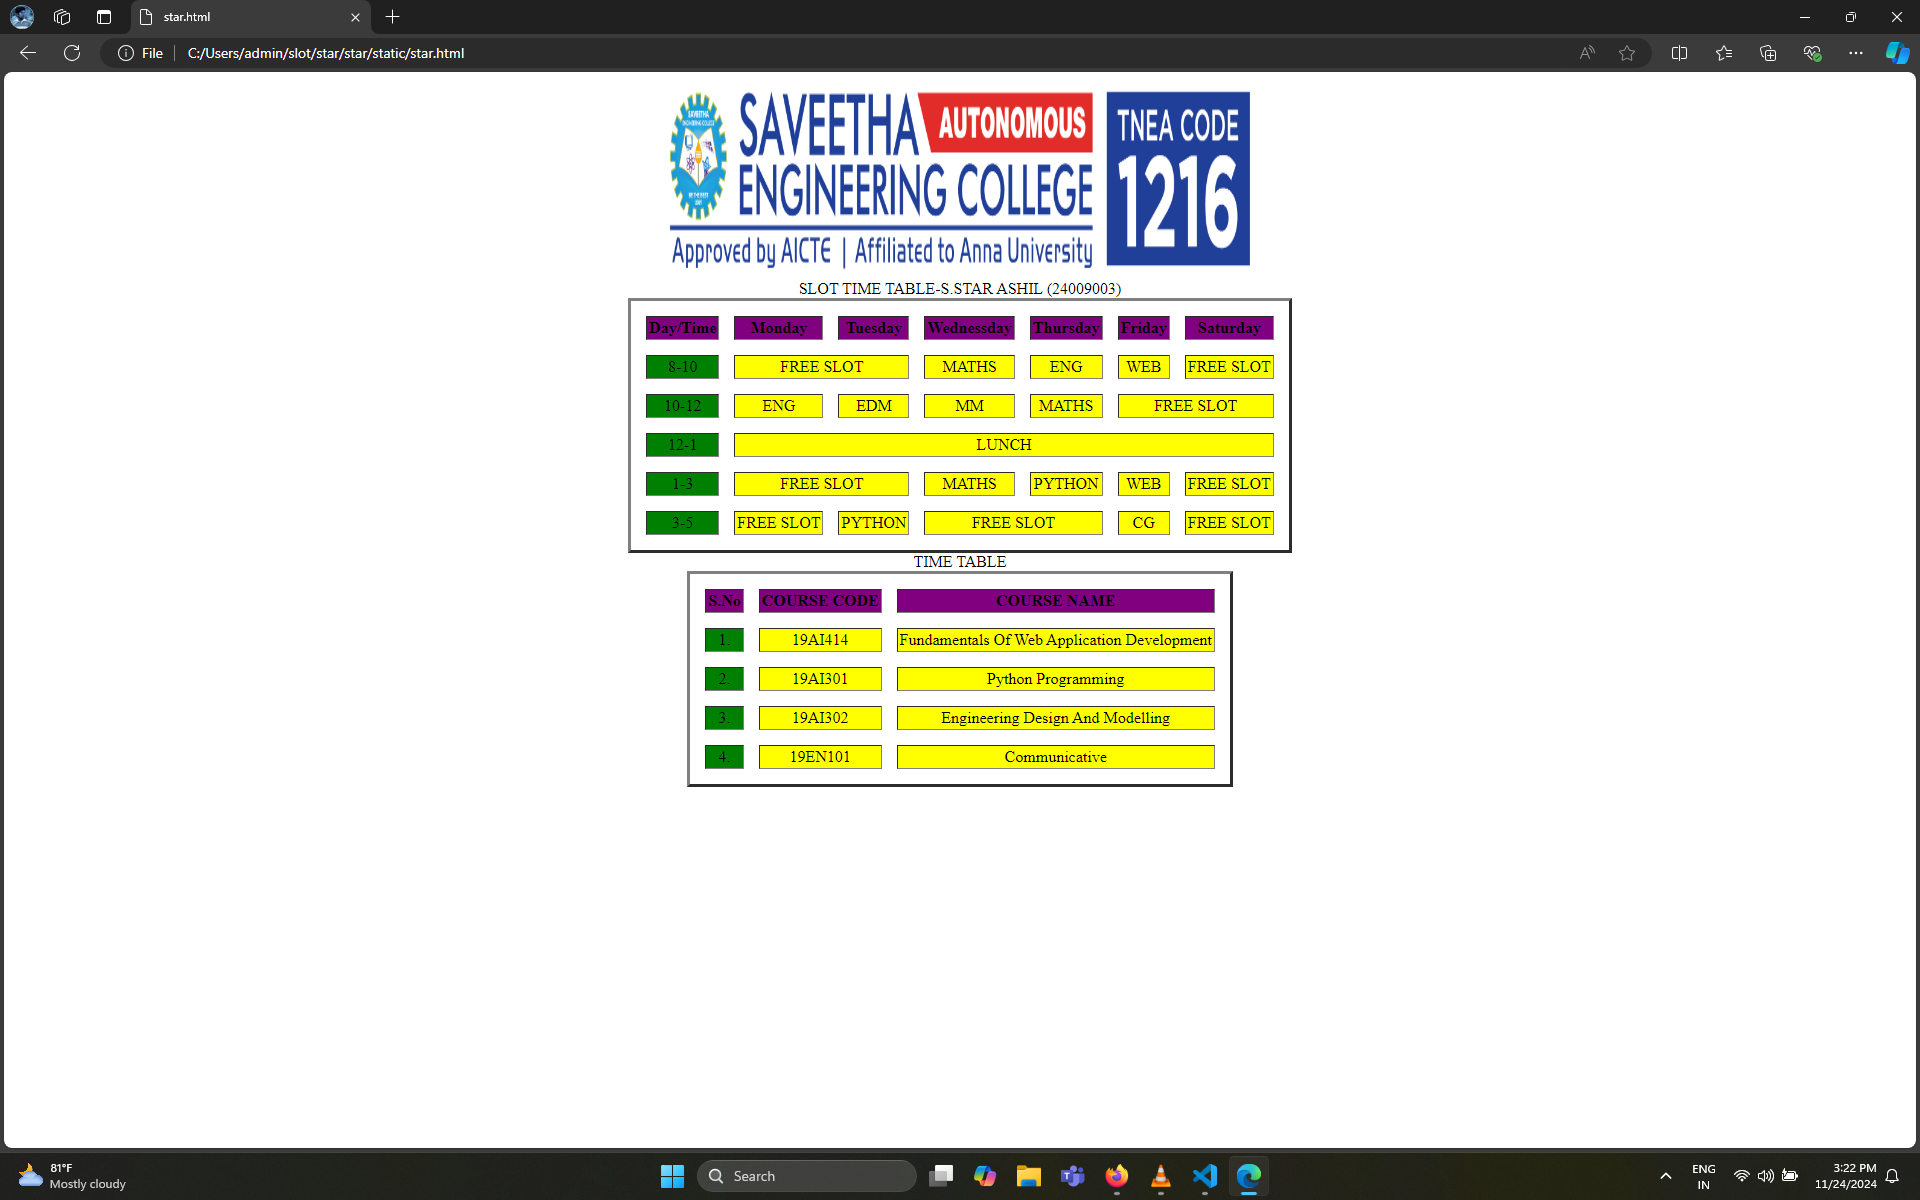
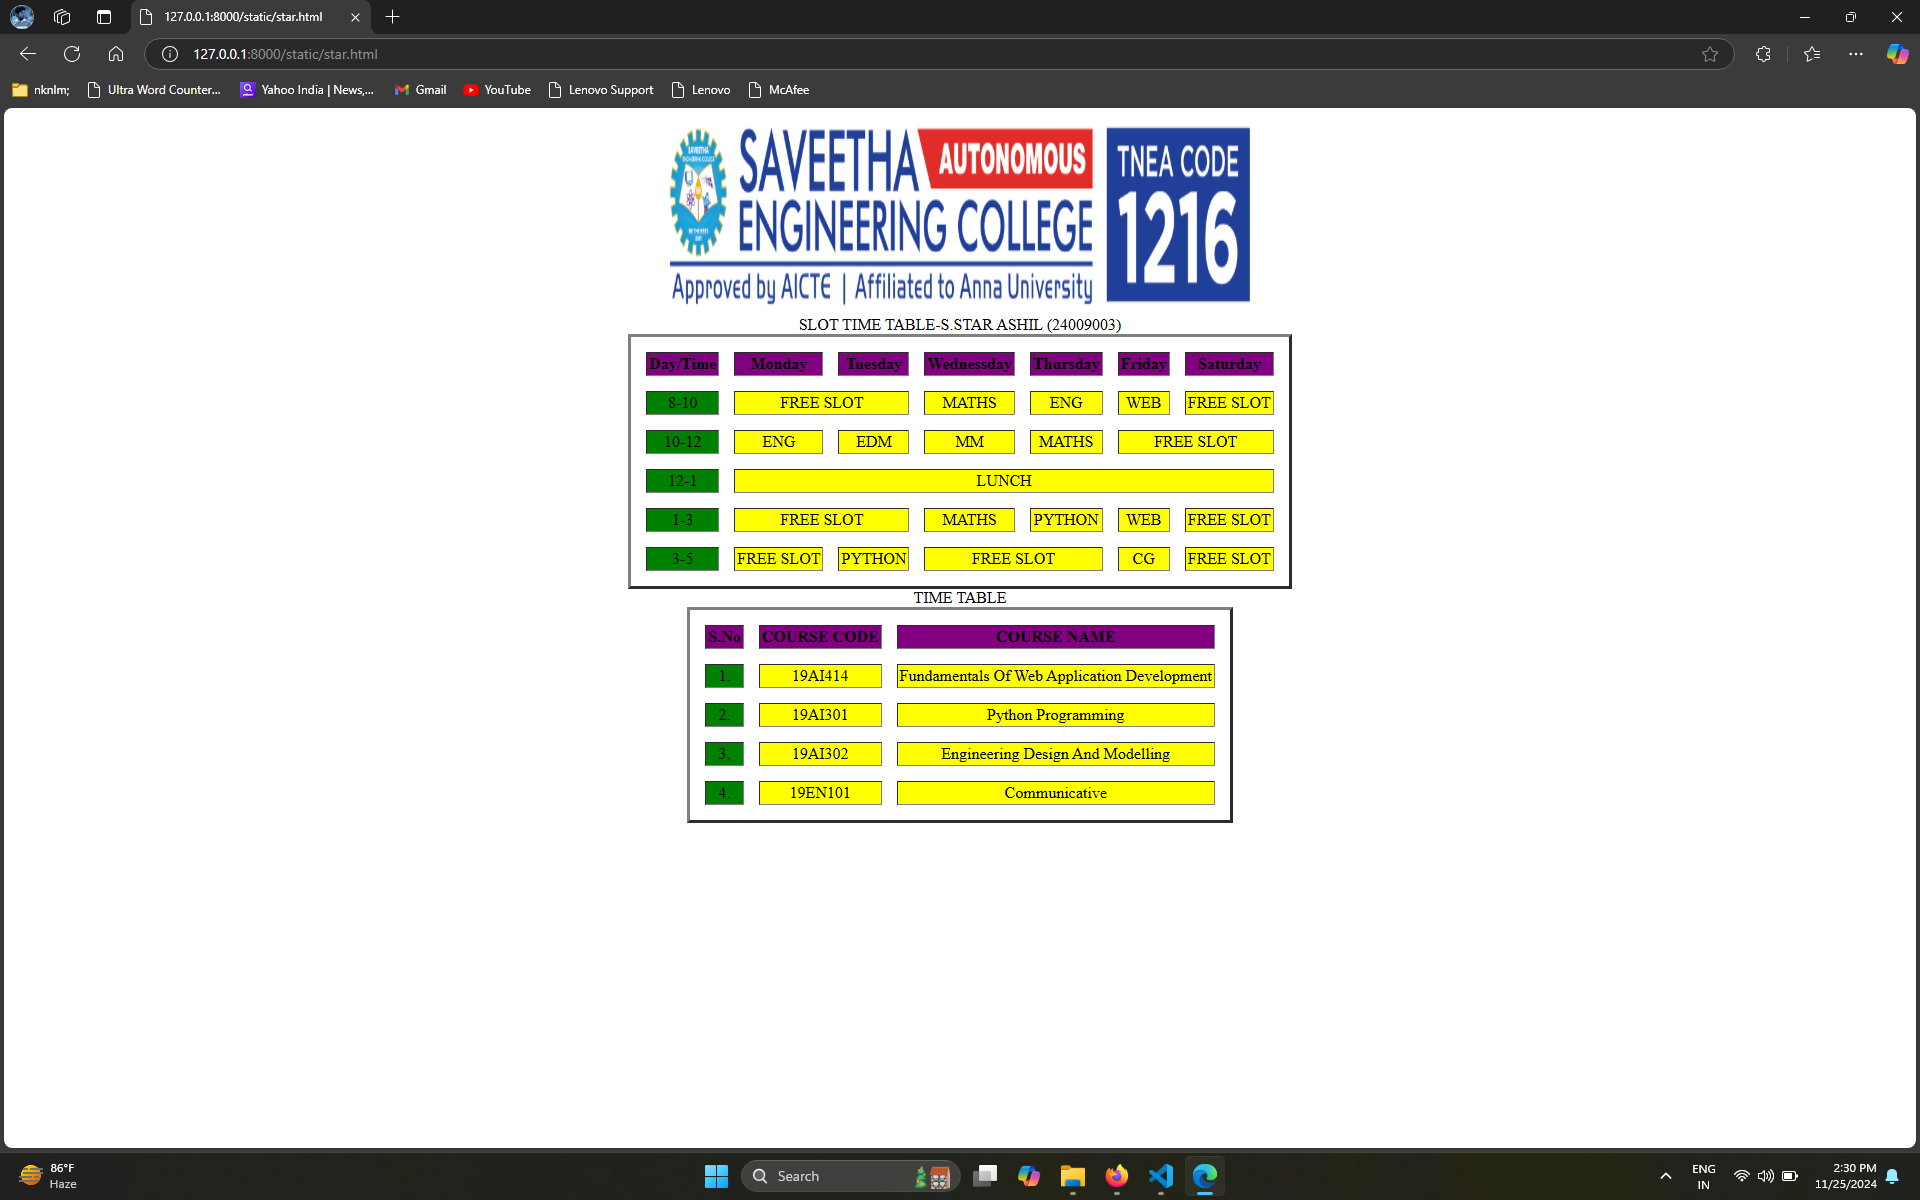
Success

diff --git a/README.md b/README.md
@@ -109,8 +109,10 @@ Execute the program using runserver command.
 ```
 
 
-## OUTPUT
-![alt text](image.png)
+## OUTPUT!
+
+[alt text](<Screenshot (21).png>)
+
 
 
 
